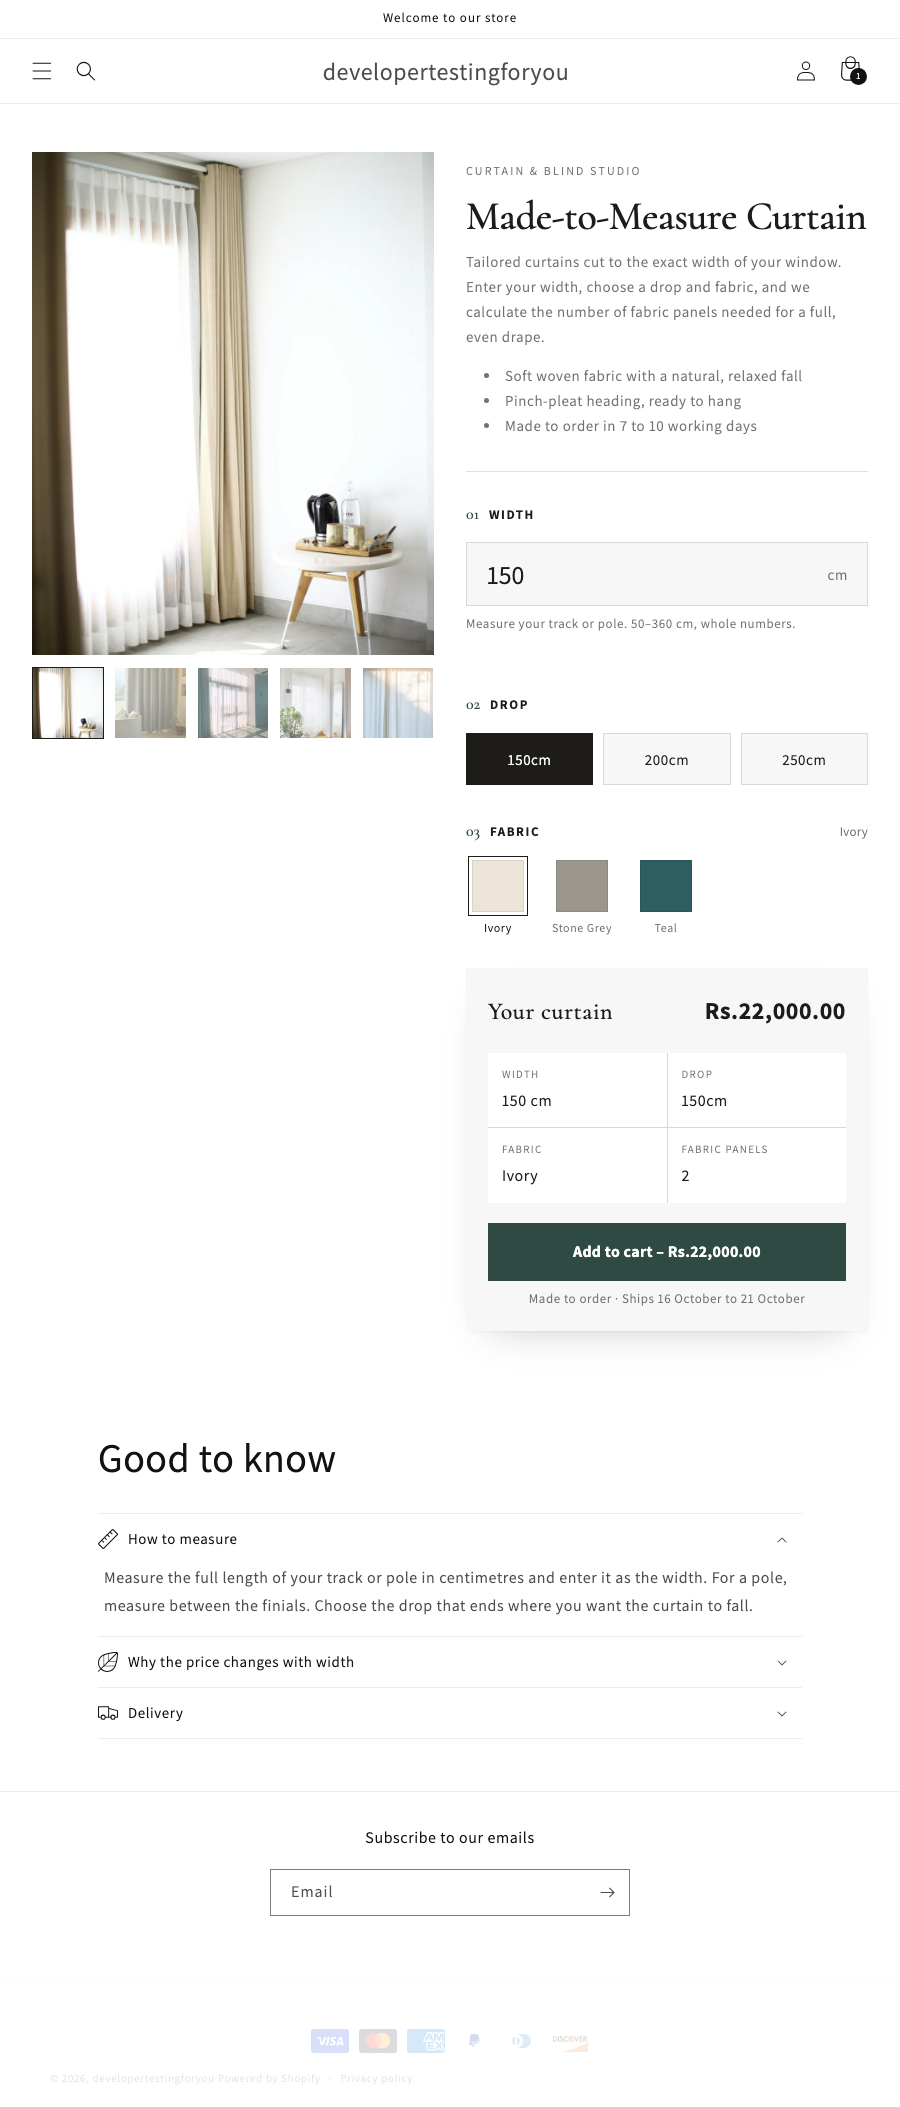
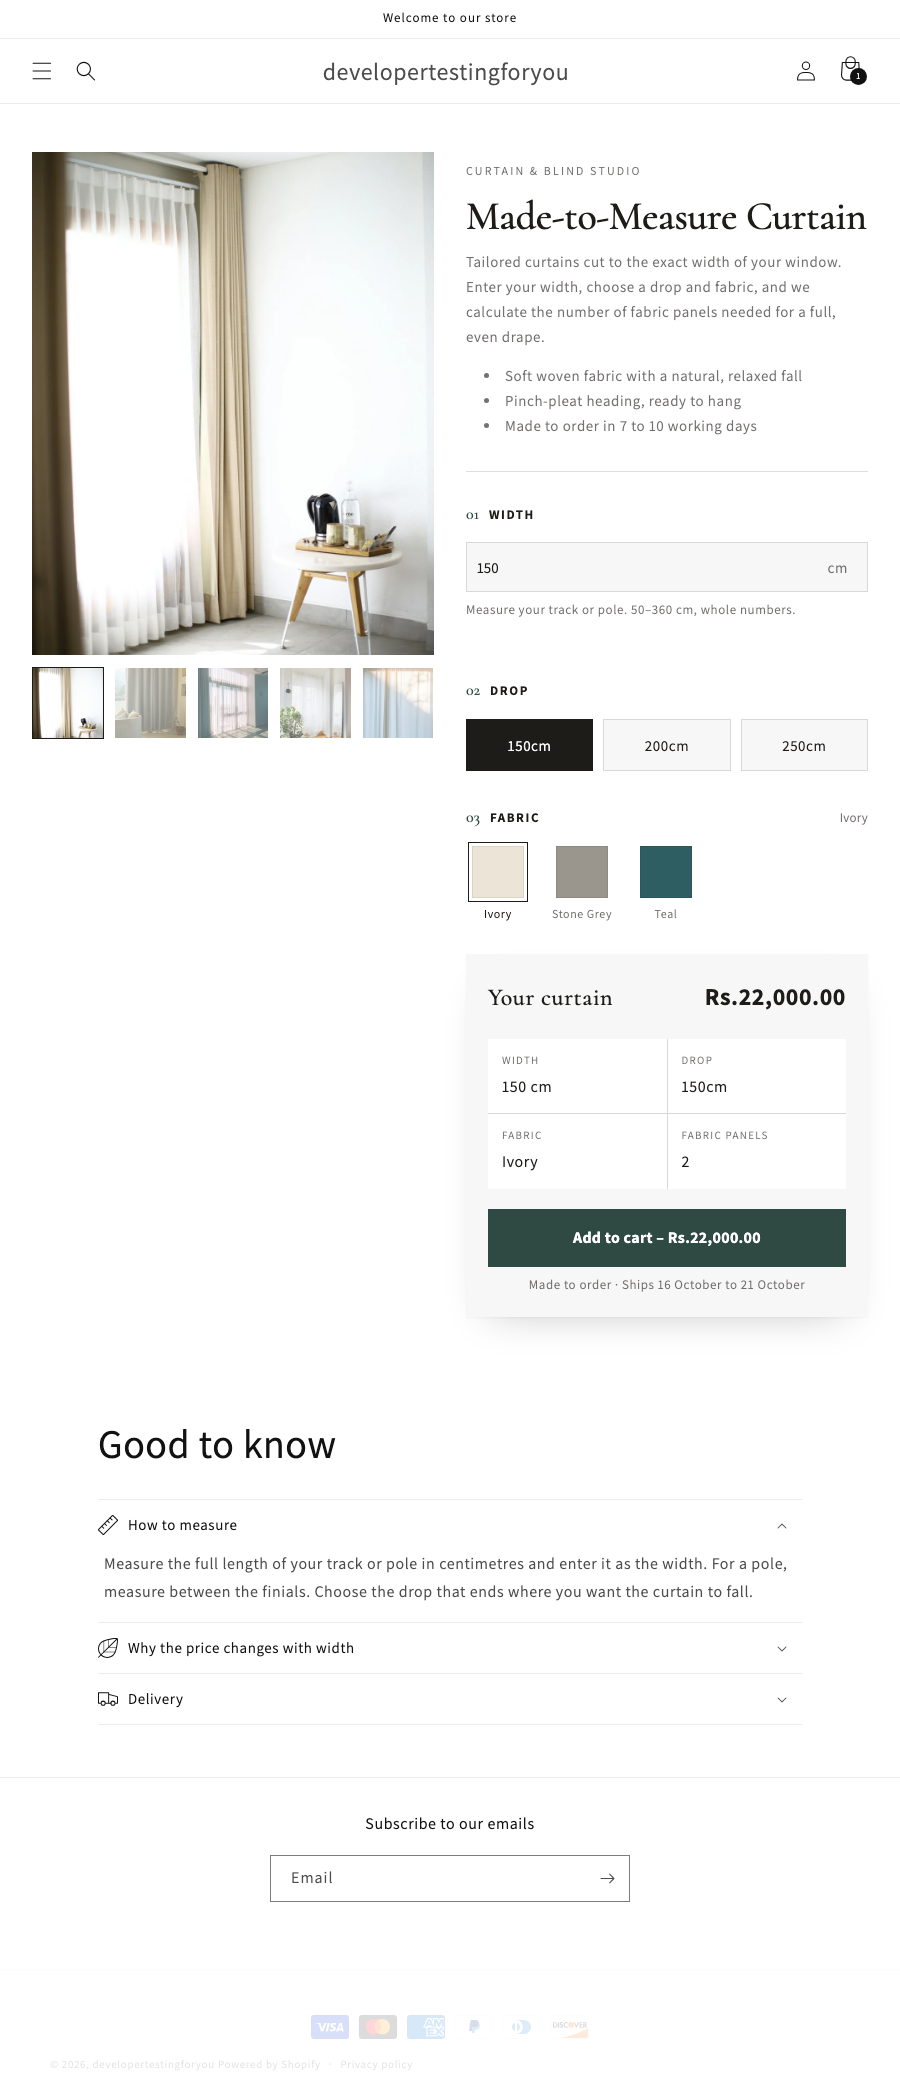
Compact width input with white focus state

diff --git a/assets/curtain-configurator.css b/assets/curtain-configurator.css
@@ -201,17 +201,17 @@
 
 .cc__width-input {
   width: 100%;
-  height: 6.4rem;
-  padding: 0 6rem 0 2rem;
+  height: 5rem;
+  padding: 0 3rem 0 1rem;
   border: 1px solid var(--cc-line);
   background: var(--cc-surface);
   color: var(--cc-text);
   font: inherit;
-  font-size: 2.6rem;
+  font-size: 1.5rem;
   font-variant-numeric: tabular-nums;
   appearance: textfield;
   -moz-appearance: textfield;
-  transition: border-color 0.2s ease, box-shadow 0.2s ease;
+  transition: border-color 0.2s ease, background-color 0.2s ease;
 }
 
 .cc__width-input::-webkit-outer-spin-button,
@@ -224,10 +224,10 @@
   border-color: color-mix(in srgb, var(--cc-text) 35%, transparent);
 }
 
-.cc__width-input:focus-visible {
+.cc__width-input:focus {
   outline: none;
-  border-color: var(--cc-accent);
-  box-shadow: 0 0 0 3px color-mix(in srgb, var(--cc-accent) 22%, transparent);
+  border-color: #000;
+  background: #fff;
 }
 
 .cc__width-input[aria-invalid='true'] {
